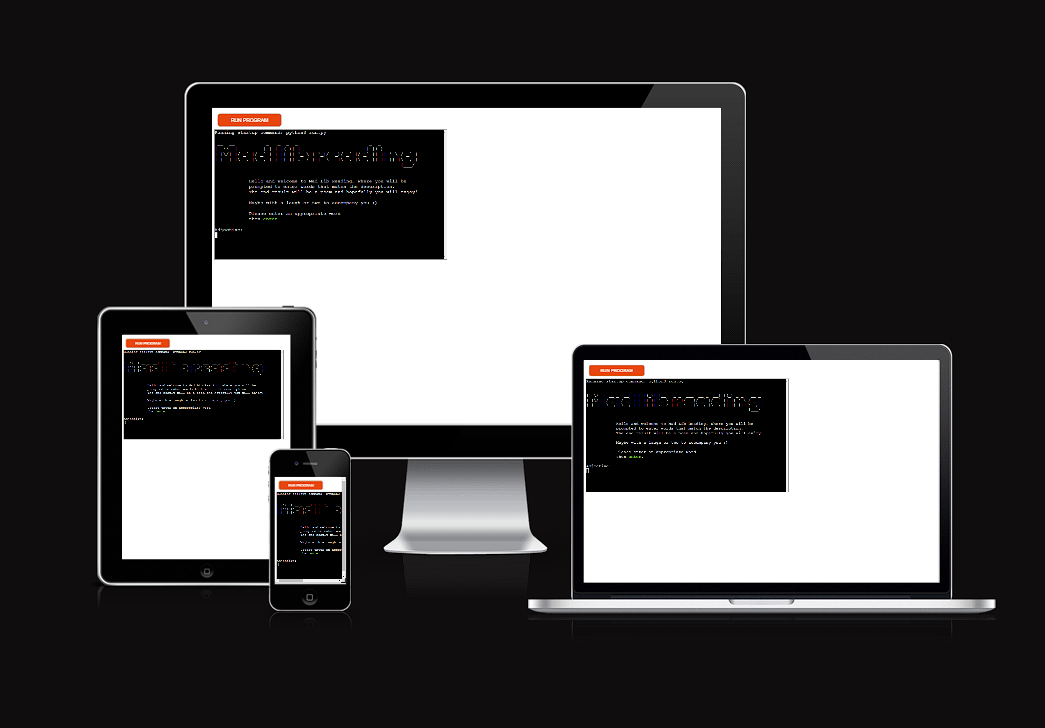
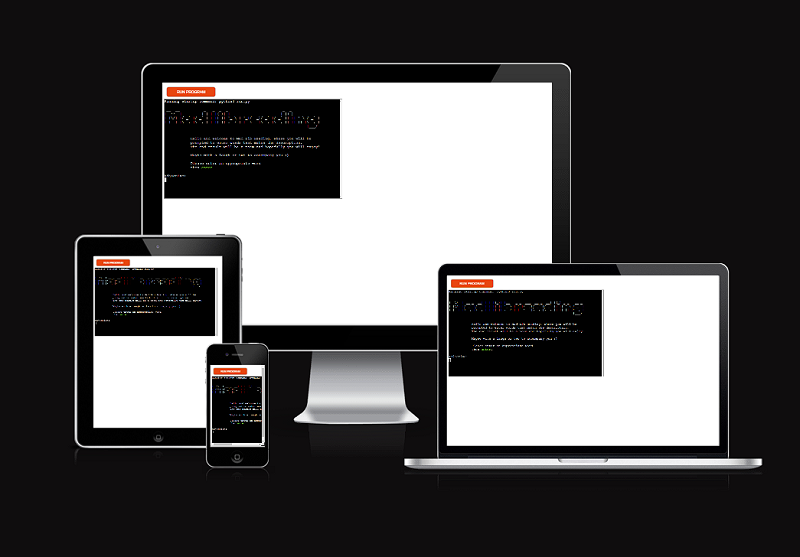
Finalize readme, change image size for layout to be comfortable

diff --git a/README.md b/README.md
@@ -1,0 +1,64 @@
+# Mad Lib Reading
+This project is inspired by previous games I have played and enjoy, where you write words which will be put into a story or a text. This can sometimes have a very bizarre but still fun result, which is why I went for the idea.  
+This project prompts the player to write appropriate words which will finally be put into a short poem, written by me.  
+
+[Live version of Mad Lib Reading](https://mad-lib-reading.herokuapp.com/)
+
+![responsive layout of project](assets/images/amiresponsive.PNG)
+
+## Features
+
+### Existing Features
+- User input
+  - Player will get a type of word which they will write in the terminal and then press enter  
+
+![user input image](assets/images/mlrone.PNG)  
+- Specification of grammar on some input  
+  - user input is stored for use in template  
+
+![](assets/images/mlrtwo.PNG)  
+- template file grab
+  - template is grabbed from external file
+  - user input is put in template
+  - template is run and displayed with user input  
+
+![](assets/images/mlrthree.PNG)
+- User asked whether they want to play again  
+
+### Future Features
+- Additional templates that the user can choose from
+- Specify grammar for input  
+
+## Testing
+I have manually tested the project by:
+- Passed code through PEP8 and confirmed that no problems arose.
+- Checked for redundant code and spelling errors
+- Tested project in local terminal and Heroku terminal.  
+
+### Bugs
+
+#### Solved Bugs
+- Added the whole game in a loop to allow for the player to choose if they want to play again.  
+
+### Remaining Bugs
+- No input validation except for 'N' if player is asked to play again.  
+
+### Validator Testing
+- PEP8
+  - No errors resturned from [PEP8online](http://pep8online.com/)  
+
+## Deployment
+Mad Lib Reading was deployed using Code Institute's moch terminal for Heroku.  
+  
+- Steps for deployment:
+  - Fork or clone this repository
+  - Create a new Heroku app
+  - Add PORT 8000 to a Config Var
+  - Add buildbacks  
+    1 heroku/python  
+    2 heroku/nodejs  
+  - Link repository to Heroku
+  - Click Deploy
+## Credits
+- Code institute for the deployment terminal
+- [Kevin Fortier](https://www.youtube.com/watch?v=vFNZvZSOqlY&ab_channel=KevinFortier) for his very detailed and good tutorial/guide which showed me exactly what and how to do what I wanted to give me the result I wanted.
